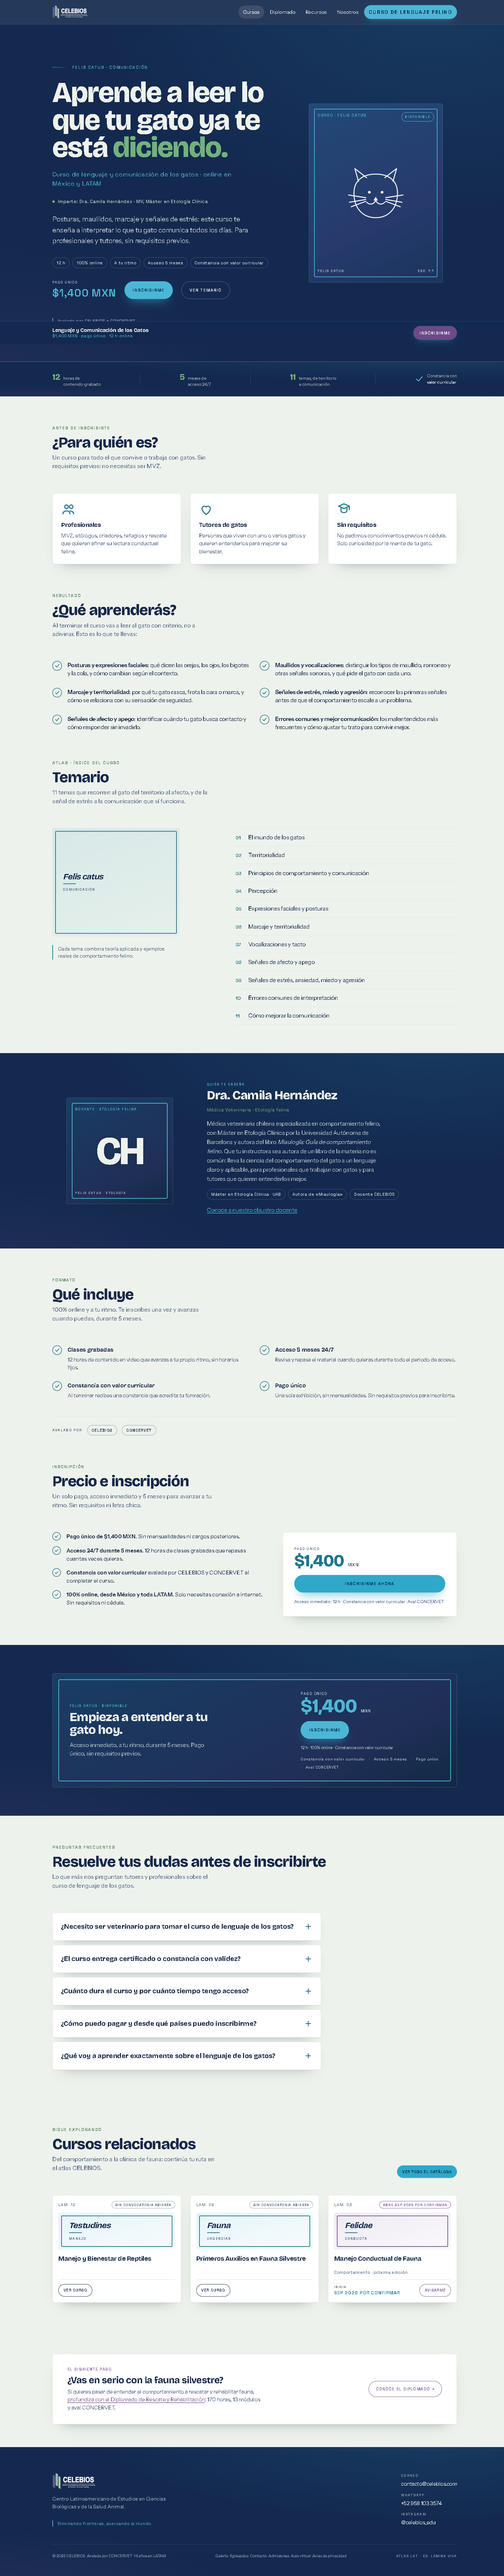
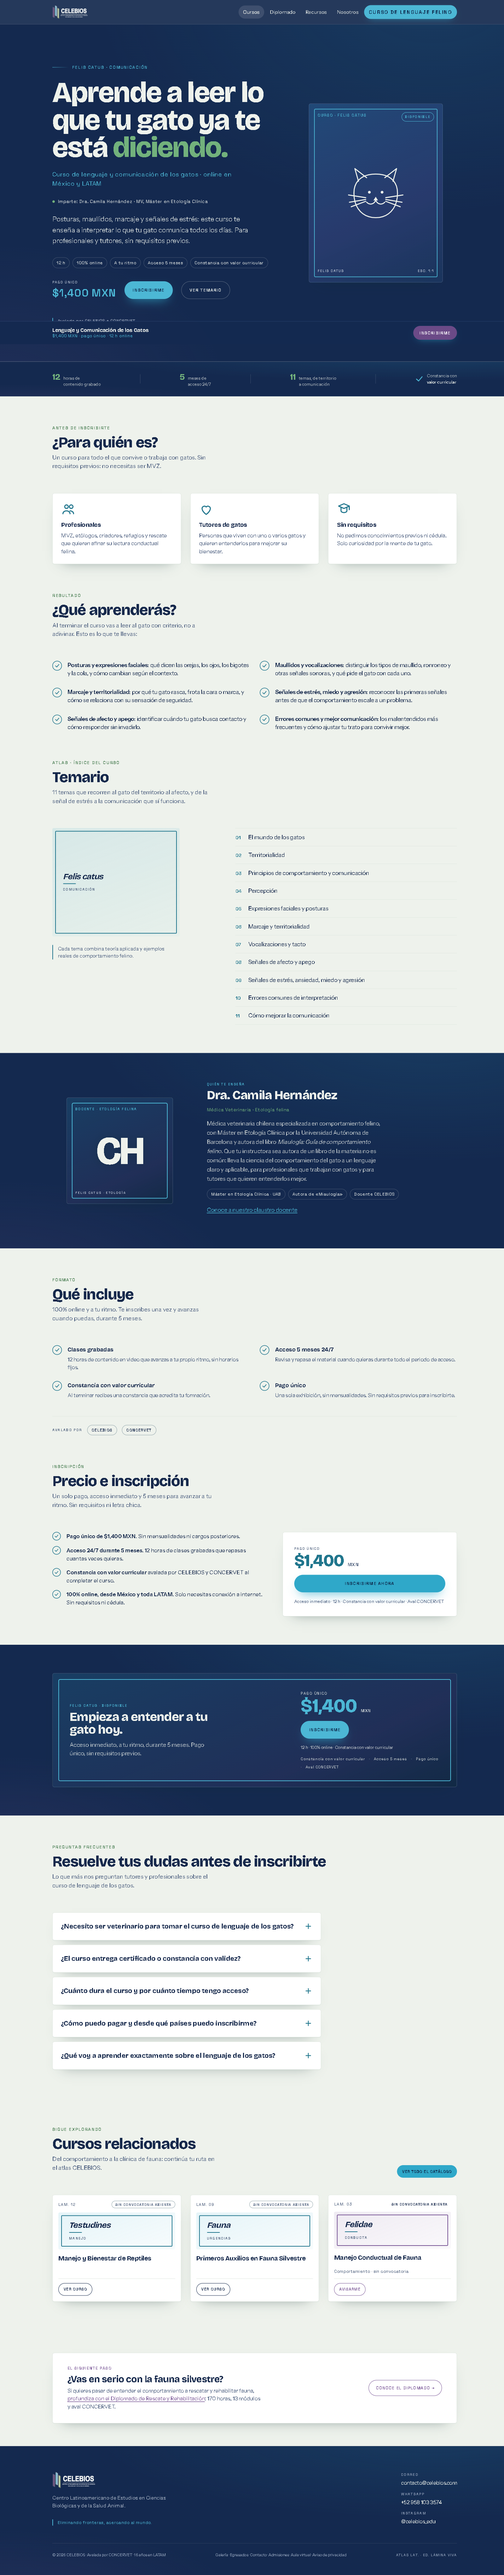
diseno: el brief describe el sitio que hay hoy, no el de esta manana
Las nueve capturas se retomaron del sitio en vivo despues de retirar los precios
y las promesas de apertura: el paquete anterior enseñaba una tabla de cinco
precios que ya no existe.

El diagnostico gana lo que el cambio de contenido dejo a la vista. El catalogo no
es solo monotono: diecinueve tarjetas casi identicas de las que solo UNA se puede
comprar, y la unica diferencia entre esa y las otras dieciocho es una pastilla de
color. Y las nueve fichas de programas sin convocatoria siguen siendo fichas de
venta con el boton apagado -- la del diplomado mide 18,108 px de alto en movil,
veintiuna pantallas de scroll para algo que no esta a la venta. Ese numero se
descubrio porque Chrome no pudo capturarla entera.

La novena captura pasa a ser solo la seccion de modalidades, y el brief dice por
que: un nombre de archivo que promete la pagina completa cuando trae una seccion
es la clase de evidencia que ya nos costo tiempo antes.

Claude-Session: https://claude.ai/code/session_01FNcAefFL5yWrjnyEoos7s7

diff --git a/redesign-v2/catalogo.html b/redesign-v2/catalogo.html
@@ -1133,15 +1133,15 @@
  <div class="sec-head">
  <div>
  <span class="sec-kicker mono">Todas las láminas del atlas</span>
- <h2 id="h2-catalogo" class="display">Cursos cortos disponibles y próximas ediciones</h2>
- <p class="sub">Filtra por área o por estado. Los cursos disponibles abren inscripción ya; los de <strong>Sin convocatoria abierta</strong> y <strong>en producción</strong> ya se indexan aquí para que dejes tu correo y entres a la lista de espera.</p>
+ <h2 id="h2-catalogo" class="display">Cursos cortos de fauna silvestre y sus estados</h2>
+ <p class="sub">Filtra por área o por estado. Hoy solo el curso de lenguaje felino tiene inscripción abierta; los que están <strong>sin convocatoria</strong> o <strong>en producción</strong> se listan aquí para que dejes tu correo y entres a la lista de espera.</p>
  </div>
  </div>
 
  <div class="cat-meta-row">
  <div class="sec-legend" aria-hidden="true">
  <span class="legend-dot"><i style="background:var(--ceibo)"></i>Disponible</span>
- <span class="legend-dot"><i style="background:transparent; border:1.5px solid var(--cobalto)"></i>Próxima edición</span>
+ <span class="legend-dot"><i style="background:transparent; border:1.5px solid var(--cobalto)"></i>Sin convocatoria</span>
  <span class="legend-dot"><i style="background:transparent; border:1.5px solid var(--lodo-line)"></i>En producción</span>
  </div>
  <div style="display:flex; align-items:center; gap:var(--s4);">

diff --git a/redesign-v2/curso-ortopedia-aves.html b/redesign-v2/curso-ortopedia-aves.html
@@ -1283,7 +1283,7 @@
  <div class="bb-buy" id="avisarme">
  <div class="bb-price">
  <span class="from">Inversión</span>
- <span class="val">Por confirmar <span class="confirm">precio por confirmar</span></span>
+ <span class="val">Sin publicar <span class="confirm">precio por confirmar</span></span>
  </div>
  <a class="btn btn-prox" href="https://wa.me/529581033574?text=Hola%20CELEBIOS%2C%20quiero%20unirme%20a%20la%20lista%20de%20espera%20del%20curso%20de%20Ortopedia%20de%20Aves." target="_blank" rel="noopener">Unirme a la lista de espera</a>
  <span class="bb-note">100% online · Aval CONCERVET · Constancia con valor curricular</span>

diff --git a/redesign-v2/curso-primeros-auxilios.html b/redesign-v2/curso-primeros-auxilios.html
@@ -1079,7 +1079,7 @@
  <span class="lbl">Edición<br><strong style="color:var(--hueso)">en preparación</strong></span>
  </div>
  <span class="strip-sep" aria-hidden="true"></span>
- <div class="strip-item"><span class="num" style="color:var(--cobalto)">·</span><span class="lbl">Próxima edición<br><strong style="color:var(--hueso)">en lista de espera</strong></span></div>
+ <div class="strip-item"><span class="num" style="color:var(--cobalto)">·</span><span class="lbl">Sin convocatoria<br><strong style="color:var(--hueso)">en lista de espera</strong></span></div>
  </div>
  </div>
 </section>

diff --git a/redesign-v2/curso-manejo-conductual.html b/redesign-v2/curso-manejo-conductual.html
@@ -1038,7 +1038,7 @@
 
  <div class="hero-state">
  <span class="dot" aria-hidden="true"></span>
- Próxima edición · fecha por confirmar <span class="ph">fecha por confirmar</span>
+ Sin convocatoria abierta · <span class="ph">fecha por confirmar</span>
  </div>
 
  <p class="lede">Etología aplicada, enriquecimiento ambiental y condicionamiento para leer el comportamiento de un animal silvestre y reducir el estrés que dispara cada manejo. La meta: que la atención clínica, la rehabilitación y la preparación para la liberación sean más seguras para el animal y para el equipo.</p>

diff --git a/redesign-v2/lamina-viva.html b/redesign-v2/lamina-viva.html
@@ -1101,7 +1101,7 @@
  </div>
  <div class="sec-legend" aria-hidden="true">
  <span class="legend-dot"><i style="background:var(--ceibo)"></i>Disponible</span>
- <span class="legend-dot"><i style="background:transparent; border:1.5px solid var(--cobalto)"></i>Próxima edición</span>
+ <span class="legend-dot"><i style="background:transparent; border:1.5px solid var(--cobalto)"></i>Sin convocatoria</span>
  <span class="legend-dot"><i style="background:transparent; border:1.5px solid var(--lodo-line)"></i>En producción</span>
  </div>
  </div>

diff --git a/redesign-v2/curso-reptiles.html b/redesign-v2/curso-reptiles.html
@@ -1013,7 +1013,7 @@
 
  <span class="hero-state">
  <span class="dot" aria-hidden="true"></span>
- Próxima edición · lista de espera abierta
+ Sin convocatoria · lista de espera abierta
  </span>
 
  <p class="lede">Biología y fisiología, contención segura, alojamiento que respeta su biología y las enfermedades más frecuentes en cautiverio. Un curso clínico para quien trabaja con reptiles y no quiere improvisar.</p>

diff --git a/docs/design/BRIEF-claude-design-2026-08-04.md b/docs/design/BRIEF-claude-design-2026-08-04.md
@@ -18,10 +18,21 @@ Ecuador, Perú o Venezuela, que ya trabaja o quiere trabajar con fauna silvestre
 Compra formación, no inspiración. Detecta el rigor y detecta la falta de rigor —
 un dibujo mal hecho de un tapir le dice más de la academia que tres párrafos de copy.
 
-**Qué vende hoy:** un curso corto abierto (Lenguaje y Comunicación de los Gatos,
-12 h, Dra. Camila Hernández) y un diplomado ancla de 170 h en Rescate y
-Rehabilitación de Fauna. El resto del catálogo son 17 áreas en distintos estados:
-próxima edición, en producción, sin convocatoria abierta.
+**Qué vende hoy: exactamente un producto.** El curso corto pregrabado de Lenguaje
+y Comunicación de los Gatos (12 h, Dra. Camila Hernández, $1,400 MXN de pago
+único). **Nada más tiene precio ni convocatoria abierta**, incluido el diplomado
+ancla de 170 h en Rescate y Rehabilitación de Fauna, cuya tercera edición cerró
+el 30 de junio de 2025. Los otros 18 programas del catálogo están en dos estados
+y ninguno se puede comprar:
+
+| Estado | Cuántos | Qué significa |
+|---|---|---|
+| **Disponible** | 1 | se vende hoy, con precio |
+| **Sin convocatoria** | 9 | se impartió antes; no hay edición abierta ni precio |
+| **En producción** | 8 | área del atlas todavía sin construir |
+
+Esa asimetría —un producto vendible contra dieciocho que no lo son— es la
+tensión central del diseño, no un detalle de contenido.
 
 **El sitio es la única superficie de venta.** SEO es el canal #1: la página vieja de
 Wix `celebios.com/rehabilitacion-fauna-2024` rankea #3 nacional.
@@ -41,8 +52,14 @@ Wix `celebios.com/rehabilitacion-fauna-2024` rankea #3 nacional.
 
 **Las 4 primeras son el encargo.** El resto hereda el sistema que salga de ellas.
 
-**Capturas del estado actual, tomadas hoy del sitio en vivo** (no del código, no de
-un kit viejo): `docs/design/capturas/` — 01 a 05 a 1440 px, 06 a 09 a 390 px.
+**Capturas del estado actual, tomadas del sitio en vivo** (no del código, no de un
+kit viejo): `docs/design/capturas/` — 01 a 05 a 1440 px, 06 a 08 a 390 px.
+
+La novena no es la ficha completa del diplomado en móvil sino solo su sección de
+modalidades (`09-diplomado-movil-modalidades.png`), y la razón es en sí misma un
+dato: **esa página mide 18,108 px de alto a 390 px**, más de lo que Chrome puede
+capturar de una vez. Son unas 21 pantallas de scroll para una ficha de un
+programa que hoy ni siquiera se puede comprar.
 
 > ⚠ Si no puedes ver esas imágenes, **dilo antes de diseñar**. No supongas su
 > contenido. Descríbeme qué ves en `01-home-desktop.png` antes de proponer nada.
@@ -99,6 +116,13 @@ Verificado mirando las capturas, no leyendo el código.
    grid de 4 columnas, y lo único que cambia es una palabra en cursiva dentro de un
    marco. Escanear ese muro no produce jerarquía: produce fatiga.
 
+   Y ahora el problema es peor de lo que se ve, porque **18 de esas 19 tarjetas no
+   llevan a ninguna parte**: no se pueden comprar. El catálogo tiene que hacer que
+   la única tarjeta comprable gane sin esconder a las otras dieciocho, que siguen
+   siendo el argumento de que esto es una academia con recorrido y no un curso
+   suelto. Hoy la única diferencia entre la que se vende y las que no es una
+   píldora de color y un precio en letra pequeña.
+
 3. **Cebra de superficies.** La home alterna marino / papel / marino / papel siete
    veces. Cada banda cambia de tema completo. Lee como acordeón, no como jerarquía —
    el lector no sabe qué es importante porque todo grita lo mismo por turnos.
@@ -140,11 +164,16 @@ Preguntas que el rediseño tiene que contestar:
 - ¿Cómo se ve un **atlas de campo** que no puede apoyarse en ilustraciones a medida?
   (No hay presupuesto de ilustración validada por un MVZ, y ese era el gate original
   de esta dirección.)
-- ¿Cómo se distingue un catálogo de **19 programas en 4 estados distintos** sin
-  convertirlo en 19 cajas iguales?
+- ¿Cómo se distingue un catálogo de **19 programas de los que solo uno se vende**
+  sin convertirlo en 19 cajas iguales, y sin esconder los otros 18?
 - ¿Cómo se ordena una home cuya única foto es el hero?
-- ¿Cómo se sostiene la **jerarquía entre lo que se vende hoy** (un curso de $1,400)
-  y **lo que ancla la marca** (un diplomado de 170 h) sin que compitan?
+- ¿Cómo se sostiene la **jerarquía entre lo único que se vende hoy** (un curso de
+  $1,400 que dura 12 horas) y **lo que ancla la marca** (un diplomado de 170 h que
+  hoy no tiene convocatoria)? El barato es el que paga; el caro es el que da
+  autoridad. Hoy el diplomado ocupa mucho más espacio y no se puede comprar.
+- ¿Cómo se ve una ficha de un programa **sin convocatoria** para que siga
+  convenciendo y captando lista de espera, sin fingir que está a la venta? Son
+  nueve páginas del sitio y hoy son fichas de venta con el botón desactivado.
 
 ---
 
@@ -170,6 +199,15 @@ que ya costaron trabajo en este proyecto.
   testimonios, ni "+500 egresados". El sitio tiene ~110 marcadores "por confirmar"
   precisamente porque el dueño todavía no aporta esos datos. Un número inventado en
   una academia con aval profesional es un problema legal, no un detalle de copy.
+- **Un solo precio en todo el sitio: $1,400 MXN**, y solo para el curso de lenguaje
+  felino. Ningún otro programa lleva importe. Esto no es una preferencia: el 4 de
+  agosto de 2026 se retiraron siete precios que se habían publicado un mes, dos de
+  ellos ($1,200 y $1,600) sin ninguna fuente en el repositorio — eran placeholders
+  de una ronda de diseño anterior que se colaron a producción.
+- **Ninguna fecha de apertura, ni marcada "por confirmar".** El mismo día se
+  retiraron "Abre Sep 2026" y "Abre Oct 2026" de dos programas cuya edición ya
+  había cerrado. Una fecha por confirmar sigue siendo una promesa. El build
+  rechaza el commit si aparece una.
 - **No generes imágenes.** Ni fotos de fauna, ni de alumnos, ni de instalaciones, ni
   "placeholder photography" tipo picsum. Una foto generada en el sitio de una
   academia se lee como evidencia de algo que pasó. Las 13 imágenes reales del repo

diff --git a/docs/design/PROMPT-claude-design-2026-08-04.md b/docs/design/PROMPT-claude-design-2026-08-04.md
@@ -38,17 +38,24 @@ latinoamericano, cada programa como una lámina numerada de un atlas de campo. L
 tesis me sigue gustando; la ejecución se quedó a medias. Puedes profundizarla o
 proponer romperla, pero si la rompes, defiéndelo.
 
-**Los cuatro problemas que tienes que resolver:**
+**Los cinco problemas que tienes que resolver:**
 
+- **Solo un programa de diecinueve se puede comprar hoy**: un curso pregrabado de
+  12 horas y $1,400 MXN. Los otros dieciocho no tienen convocatoria ni precio,
+  incluido el diplomado de 170 horas que ancla la marca. El catálogo son 19 cajas
+  casi idénticas en cuatro columnas, y la única diferencia entre la que se vende y
+  las que no es una píldora de color. Lo comprable tiene que ganar sin esconder al
+  resto, que es el argumento de que esto es una academia con recorrido.
 - El sitio casi no tiene imágenes: la home tiene una sola foto y el catálogo
   ninguna. Diecinueve tarjetas de puro texto.
-- El catálogo son 19 cajas idénticas en cuatro columnas para 19 programas que están
-  en cuatro estados distintos (disponible, próxima edición, en producción, sin
-  convocatoria).
 - La home alterna fondo marino y fondo papel siete veces. Lee como acordeón, no
   como jerarquía.
 - El hero tiene siete elementos de texto compitiendo por el momento de mayor
   atención del sitio.
+- Las nueve fichas de programas sin convocatoria son fichas de venta con el botón
+  apagado. La del diplomado mide 18,000 px de alto en móvil: veintiuna pantallas
+  de scroll para algo que no está a la venta. Necesitan ser otra cosa —algo que
+  convenza y capte lista de espera sin fingir disponibilidad.
 
 **Reglas duras. Ganan sobre cualquier preferencia estética:**
 
@@ -64,6 +71,12 @@ proponer romperla, pero si la rompes, defiéndelo.
   docentes, ni testimonios, ni porcentajes. El sitio tiene ~110 marcadores "por
   confirmar" justamente porque esos datos todavía no existen. Si necesitas un número
   para que la composición funcione, escribe `[por confirmar]`.
+- **Un solo precio en todo el sitio ($1,400 MXN, el curso de gatos) y ninguna fecha
+  de apertura**, ni siquiera marcada "por confirmar". No es una preferencia
+  estética: en agosto de 2026 se retiraron siete precios publicados —dos de ellos
+  inventados en una ronda de diseño anterior— y dos fechas de apertura de programas
+  cuya edición ya había cerrado. Si tu composición necesita una tabla de precios o
+  una cuenta regresiva, no la tiene.
 - **La paleta sale del logo real, no de tu gusto:** marino `#14294F`, cian `#2FA8C9`,
   morado `#7A5797`, salvia `#6FB07A`, papel `#EEF2EC`, tinta `#16294C`. El cian marca
   disponible y acción; el morado, próxima edición; la salvia es acento de vida. Puedes
